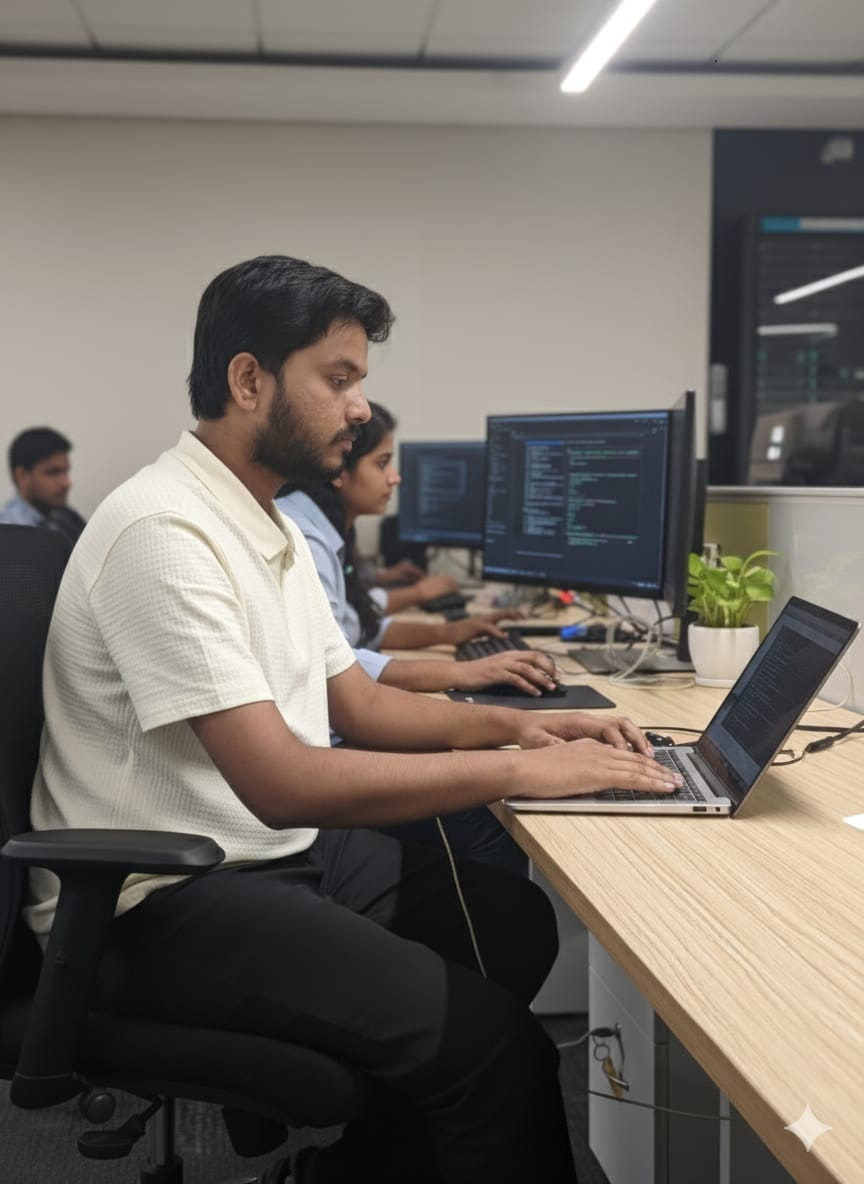
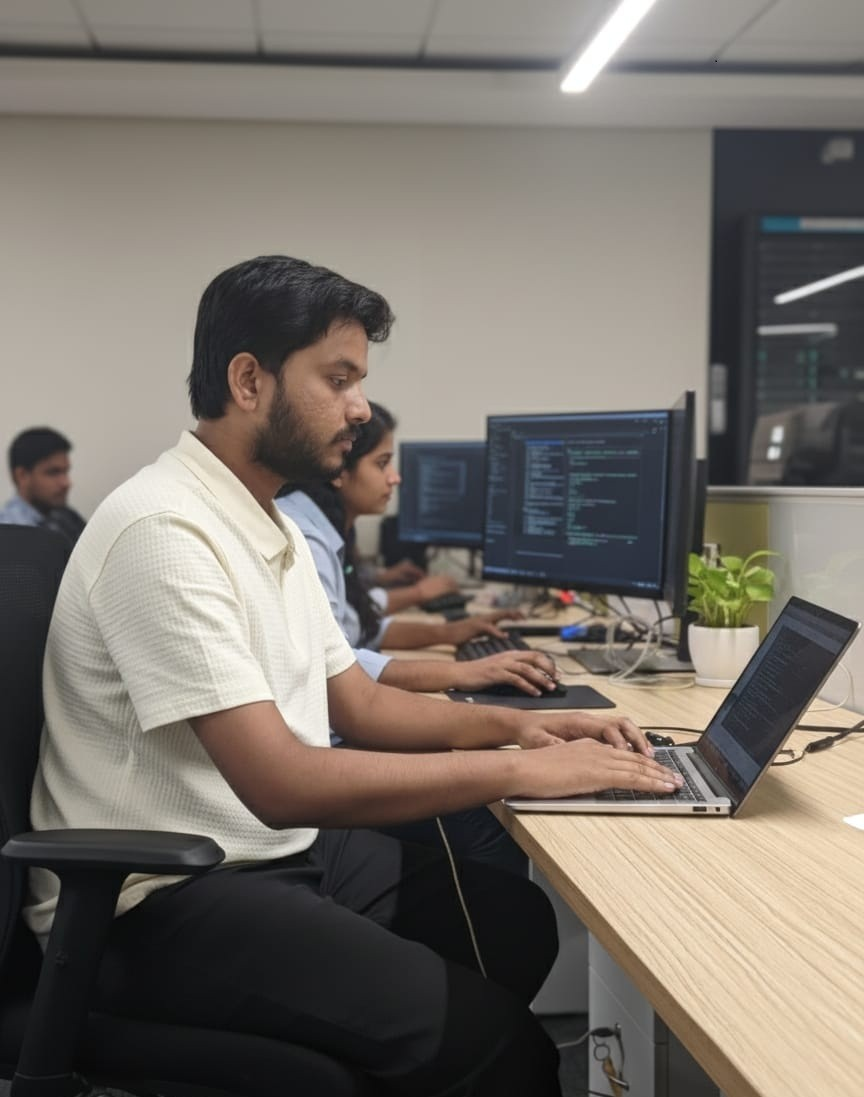
new project added also changes dones in project component

diff --git a/src/app/components/projects/projects.component.ts b/src/app/components/projects/projects.component.ts
@@ -6,56 +6,83 @@ import { CommonModule } from '@angular/common';
   standalone: true,
   imports: [CommonModule],
   template: `
-    <section id="projects" class="projects-section">
-      <div class="container">
-        <h2>Projects</h2>
-        <div class="row">
-          <div class="col-md-6" *ngFor="let project of projects">
-            <div class="project-card">
-            <a [href]="project.link" target="_blank"  class="text-decoration-none" >
-              <img [src]="project.image" [alt]="project.title" class="project-image"/>
-              <div class="project-card-body">
-                <h3>{{ project.title }}</h3>
-                <p>{{ project.description }}</p>
-                <div>
-                  <span class="tech-tag" *ngFor="let tech of project.technologies">{{ tech }}</span>
-                </div>
-                <a *ngIf="!project.offline" [href]="project.link" target="_blank" class="project-link">
-                  <span style='display: inline-block;
-                  align-items: center;
-                    padding: 4px 10px;
-                    background: #ffebee;
-                    color: #c62828;
-                    font-size: 14px;
-                    border-radius: 4px;
-                    font-weight: 600;'>
-                  
-                   Visit Live Project  <br>
-                   &nbsp;&nbsp;&nbsp;&nbsp;&nbsp; →
-                  </span>
-                  
-              </a>
 
-              <span *ngIf="project.offline" style='display: inline-block;
-                    padding: 4px 10px;
-                    background: #ffebee;
-                    color: #c62828;
-                    font-size: 14px;
-                    border-radius: 4px;
-                    font-weight: 600;'>
-                    Server temporarily unavailable
-                    <br>
-                  Please try again shortly.
-                  </span>
-                </div>
-                </a>
+<section id="projects" class="projects-section">
+  <div class="container">
+    <h2>Projects</h2>
+
+    <div class="row">
+      <div class="col-md-6" *ngFor="let project of projects">
+        <div class="project-card">
+
+          <!-- IMAGE (no anchor wrapper) -->
+          <img
+            [src]="project.image"
+            [alt]="project.title"
+            class="project-image"
+          />
+
+          <div class="project-card-body">
+            <h3>{{ project.title }}</h3>
+            <p>{{ project.description }}</p>
+
+            <div>
+              <span
+                class="tech-tag"
+                *ngFor="let tech of project.technologies"
+              >
+                {{ tech }}
+              </span>
             </div>
+
+            <!-- ✅ ONLINE PROJECT -->
+            <ng-container *ngIf="!project.offline; else offlineBlock">
+              <a
+                *ngFor="let p of project.links"
+                [href]="p.url"
+                target="_blank"
+                class="project-link"
+              >
+                <span
+                  style="display: inline-block;
+                         align-items: center;
+                         padding: 4px 10px;
+                         margin: 2px;
+                         background: #ffebee;
+                         color: #c62828;
+                         font-size: 14px;
+                         border-radius: 4px;
+                         font-weight: 600;"
+                         
+                         >
+                  Visit Live Project <br />
+                  &nbsp;&nbsp;&nbsp;&nbsp;&nbsp; →
+                </span>
+              </a>
+            </ng-container>
+
+            <!-- ❌ OFFLINE PROJECT (ONLY ONCE) -->
+            <ng-template #offlineBlock>
+              <span
+                style="display: inline-block;
+                       padding: 4px 10px;
+                       background: #ffebee;
+                       color: #c62828;
+                       font-size: 14px;
+                       border-radius: 4px;
+                       font-weight: 600;">
+                Server temporarily unavailable
+                <br />
+                Please try again shortly.
+              </span>
+            </ng-template>
+
           </div>
         </div>
       </div>
-    </section>
-
-
+    </div>
+  </div>
+</section>
 
   `,
   styles: [
@@ -63,39 +90,48 @@ import { CommonModule } from '@angular/common';
   ]
 })
 export class ProjectsComponent {
-  projects = [
-    {
-      title: 'Tenant Management System',
-      description: 'A comprehensive platform for managing tenant information, lease agreements, and maintenance requests.',
-      technologies: ['Java', 'Spring Boot', 'Angular', 'PostgreSQL'],
-      image: 'assets/portfolio-website-design.png?height=300&width=450',
-      link: "http://192.168.140.82.compute-1.amazonaws.com/tenant-management-system/",
-      offline: true
+projects = [
+  {
+    title: 'Tenant Management System',
+    description: 'A comprehensive platform for managing tenant information, lease agreements, and maintenance requests.',
+    technologies: ['Java', 'Spring Boot', 'Angular', 'PostgreSQL'],
+    image: 'assets/portfolio-website-design.png',
+    offline: true,
+    links: [
+      { url: 'http://192.168.140.82.compute-1.amazonaws.com/tenant-management-system/' }
+    ]
+  },
+  {
+    title: 'Sales & Lead Management',
+    description: 'CRM application for tracking sales leads, managing customer relationships, and generating reports.',
+    technologies: ['Node.js', 'Express.js', 'Angular', 'MySQL'],
+    image: 'assets/lead-management-crm-interface.jpg',
+    offline: true,
+    links: [
+      { url: 'http://192.168.140.82.compute-1.amazonaws.com/Sales-application/' }
+    ]
+  },
+  {
+    title: 'Procurement Platform',
+    description: 'Enterprise procurement system for managing vendor relationships, purchase orders, and inventory.',
+    technologies: ['Java', 'Spring Boot', 'Angular', 'PostgreSQL'],
+    image: 'assets/procurement-management-system.jpg',
+    offline: true,
+    links: [
+      { url: 'http://192.168.140.82.compute-1.amazonaws.com/Procrument-management/' }
+    ]
+  },
+  {
+    title: 'Freelancing Marketplace',
+    description: 'Platform connecting freelancers with clients for project-based work and skill-based services.',
+    technologies: ['Node.js', 'Express.js', 'Angular', 'MySQL'],
+    image: 'assets/freelance-marketplace-platform.jpg',
+    offline: false,
+    links: [
+      { url: 'https://sample-project-4084e.web.app/' },
+      { url: 'https://poc-plan-production-master.web.app/' }
+    ]
+  }
+];
 
-    },
-    {
-      title: 'Sales & Lead Management',
-      description: 'CRM application for tracking sales leads, managing customer relationships, and generating reports.',
-      technologies: ['Node.js', 'Express.js', 'Angular', 'MySQL'],
-      image: 'assets/lead-management-crm-interface.jpg?height=300&width=400',
-      link: "http://192.168.140.82.compute-1.amazonaws.com/Sales-application/",
-      offline: true
-    },
-    {
-      title: 'Procurement Platform',
-      description: 'Enterprise procurement system for managing vendor relationships, purchase orders, and inventory.',
-      technologies: ['Java', 'Spring Boot', 'Angular', 'PostgreSQL'],
-      image: 'assets/procurement-management-system.jpg?height=300&width=400',
-      link: "http://192.168.140.82.compute-1.amazonaws.com/Procrument-management/",
-      offline: true
-    },
-    {
-      title: 'Freelancing Marketplace',
-      description: 'Platform connecting freelancers with clients for project-based work and skill-based services.',
-      technologies: ['Node.js', 'Express.js', 'Angular', 'MySQL'],
-      image: 'assets/freelance-marketplace-platform.jpg?height=300&width=400',
-      link: "https://sample-project-4084e.web.app/",
-      offline: false
-    }
-  ];
 }
